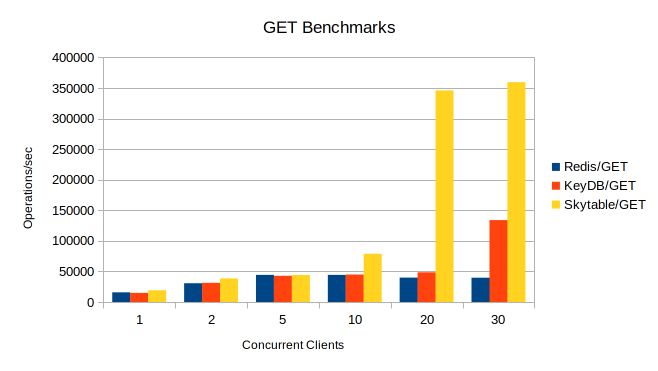
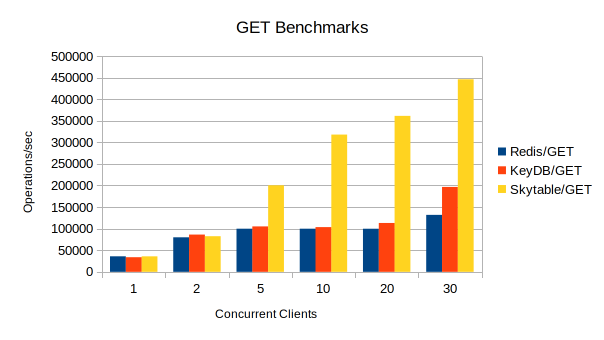
Update benches for latest releases

Changed region(s): [[0.0298, 0.1176, 0.9834, 0.8824], [0.3874, 0.0588, 0.6258, 0.1176], [0.3576, 0.9118, 0.5364, 0.9412]]

diff --git a/README.md b/README.md
@@ -1,6 +1,6 @@
 # Skytable v/s the rest
 
-> More comprehensive and thorough benchmarks will be published soon. Please wait till then!
+> More comprehensive and thorough benchmarks will be published soon. Please wait till then! **[Read the benchmark notes](#notes)**!
 
 ## Benchmark summary
 
@@ -25,8 +25,16 @@ Reading the graph:
 > Yes, I'm aware of the issue, and I will try to fix the fluctuation issue in an upcoming release.
 >
 > 2: **The KeyDB benchmark is still experimental**
-> 
+>
 > 3: **No pipelining was used in any benchmark** (Skytable's pipeline queries are currently under development)
+>
+> 4: **Key/value sizes are different!**
+>
+> - **Redis uses 3 byte** k/v sizes
+> - **Skytable uses 4 byte** k/v sizes
+> - **KeyDB** uses an unspecified k/v size (memtier doesn't say much about it; I couldn't find any appropriate documentation)
+>
+> 5: **Average values were taken**
 
 ## Procedure
 
@@ -48,41 +56,42 @@ Jump to:
 Output of `lscpu` (trimmed):
 
 ```
+ubuntu@ip-172-31-13-51:~$ lscpu
 Architecture:                    x86_64
 CPU op-mode(s):                  32-bit, 64-bit
 Byte Order:                      Little Endian
-Address sizes:                   40 bits physical, 48 bits virtual
-CPU(s):                          16
-On-line CPU(s) list:             0-15
-Thread(s) per core:              1
+Address sizes:                   46 bits physical, 48 bits virtual
+CPU(s):                          32
+On-line CPU(s) list:             0-31
+Thread(s) per core:              2
 Core(s) per socket:              16
 Socket(s):                       1
 NUMA node(s):                    1
 Vendor ID:                       GenuineIntel
-CPU family:                      15
-Model:                           6
-Model name:                      Common KVM processor
-Stepping:                        1
-CPU MHz:                         2199.998
-BogoMIPS:                        4399.99
+CPU family:                      6
+Model:                           85
+Model name:                      Intel(R) Xeon(R) Platinum 8259CL CPU @ 2.50GHz
+Stepping:                        7
+CPU MHz:                         3189.320
+BogoMIPS:                        5000.00
 Hypervisor vendor:               KVM
 Virtualization type:             full
 L1d cache:                       512 KiB
 L1i cache:                       512 KiB
-L2 cache:                        64 MiB
-L3 cache:                        16 MiB
+L2 cache:                        16 MiB
+L3 cache:                        35.8 MiB
 ```
 
 Output of `uname -a`:
 
 ```
-Linux sky-us-central 5.4.0-74-generic #83-Ubuntu SMP Sat May 8 02:35:39 UTC 2021 x86_64 x86_64 x86_64 GNU/Linux
+Linux ip-172-31-13-51 5.8.0-1042-aws #44~20.04.1-Ubuntu SMP Mon Aug 2 11:25:34 UTC 2021 x86_64 x86_64 x86_64 GNU/Linux
 ```
 
 Output of `cat /proc/meminfo | grep MemTotal`:
 
 ```
-MemTotal:       16395300 kB
+MemTotal:       130415620 kB
 ```
 
 Output of `lsb_release -a`:
@@ -96,7 +105,7 @@ Codename:	focal
 ```
 
 **Summary**
-So we have a 16-Core VM running Ubuntu 20.04.2 with 16GB RAM.
+So we have a 16-Core VM (32 threads due to hyperthreading) running Ubuntu 20.04.2 with 130.4GB RAM.
 
 ## Benchmarking Redis
 
@@ -108,7 +117,7 @@ tar -xf redis-6.2.5.tar.gz
 cd redis-6.2.5 && sudo make install
 ```
 
-Now that Redis is installed, let's benchmark `GET` and `SET` in Redis. First start the server (simply `redis-server &` to run it in the background). We'll pass `--csv` to avoid too much output and only show the
+Now that Redis is installed, let's benchmark `GET` and `SET` in Redis. First start the server (simply `redis-server --io-threads 16 &` to run it in the background). We'll pass `--csv` to avoid too much output and only show the
 required section of output.
 
 ### Benchmarking Redis
@@ -122,8 +131,8 @@ redis-benchmark -t set,get -n 100000 -c 1 --threads 1 --csv
 Output:
 
 ```
-"SET","16603.02"
-"GET","15873.02"
+"SET","35778.18"
+"GET","35919.54"
 ```
 
 **Bench 2: 2 clients, 2 threads**
@@ -135,8 +144,8 @@ redis-benchmark -t set,get -n 100000 -c 2 --threads 2 --csv
 Output:
 
 ```
-"SET","36350.42"
-"GET","30759.77"
+"SET","79936.05"
+"GET","79936.05"
 ```
 
 **Bench 3: 5 clients, 5 threads**
@@ -148,8 +157,8 @@ redis-benchmark -t set,get -n 100000 -c 5 --threads 5 --csv
 Output:
 
 ```
-"SET","44404.97"
-"GET","44404.97"
+"SET","99900.09"
+"GET","99900.09"
 ```
 
 **Bench 4: 10 clients, 10 threads**
@@ -161,8 +170,8 @@ redis-benchmark -t set,get -n 100000 -c 10 --threads 10 --csv
 Output:
 
 ```
-"SET","39936.10"
-"GET","44385.27"
+"SET","99900.09"
+"GET","99900.09"
 ```
 
 **Bench 5: 20 clients, 20 threads**
@@ -174,8 +183,8 @@ redis-benchmark -t set,get -n 100000 -c 20 --threads 20 --csv
 Output:
 
 ```
-"SET","44385.27"
-"GET","39920.16"
+"SET","99800.40"
+"GET","99800.09"
 ```
 
 **Bench 6: 30 clients, 30 threads**
@@ -187,27 +196,25 @@ redis-benchmark -t set,get -n 100000 -c 30 --threads 30 --csv
 Output:
 
 ```
-"SET","39904.23"
-"GET","39777.25"
+"SET","132450.33"
+"GET","131926.12"
 ```
 
 ## Benchmarking Skytable
 
-We'll use the latest stable Skytable release (v0.6.4)
-for benchmarking.
+We'll use the latest stable Skytable version off `next` (commit a1ea9c31114)
 
 ### Installing Skytable
 
-Skytable comes with pre-built binaries by default, unlike Redis that requires you to manually build the binaries. So we'll go ahead and download it.
+Skytable comes with pre-built binaries by default, unlike Redis that requires you to manually build the binaries. However, as we're benchmarking off the latest commit, we'll need to build it.
 
 ```sh
-wget https://github.com/skytable/skytable/releases/download/v0.6.4/sky-bundle-v0.6.4-x86_64-linux-gnu.zip
-unzip sky-bundle-v0.6.4-x86_64-linux-gnu.zip
+cargo build --release && cd target/release/skytable
 ```
 
-To start Skytable, we'll simply run `./skyd &` to keep it in the background. Like the other benchmark, we'll trim output to only keep what's necessary. Also the number of threads for the benchmark in Skytable is determined by the number of clients, so we don't have to explicitly specify the number of threads.
-
 ### Benchmarking Skytable
+
+To start Skytable, we'll simply run `./skyd &` to keep it in the background. Like the other benchmark, we'll trim output to only keep what's necessary. Also the number of threads for the benchmark in Skytable is determined by the number of clients, so we don't have to explicitly specify the number of threads.
 
 **Bench 1: 1 client, 1 thread**
 
@@ -219,8 +226,8 @@ Output:
 
 ```json
 [
-  { "report": "GET", "stat": 19243.486447917167 },
-  { "report": "SET", "stat": 19966.21511150442 }
+  { "report": "GET", "stat": 35819.636414 },
+  { "report": "SET", "stat": 35524.728037 }
 ]
 ```
 
@@ -234,8 +241,8 @@ Output:
 
 ```json
 [
-  { "report": "GET", "stat": 38582.11281719525 },
-  { "report": "SET", "stat": 36313.763793128164 }
+  { "report": "GET", "stat": 82489.2301145 },
+  { "report": "SET", "stat": 83473.0270512 }
 ]
 ```
 
@@ -249,8 +256,8 @@ Output:
 
 ```json
 [
-  { "report": "GET", "stat": 44292.0943448734 },
-  { "report": "SET", "stat": 46593.50782686504 }
+  { "report": "GET", "stat": 200557.406392 },
+  { "report": "SET", "stat": 198217.313562 }
 ]
 ```
 
@@ -264,8 +271,8 @@ Output:
 
 ```json
 [
-  { "report": "GET", "stat": 78869.86997358651 },
-  { "report": "SET", "stat": 90033.9936397916 }
+  { "report": "GET", "stat": 318038.853356 },
+  { "report": "SET", "stat": 316238.431393 }
 ]
 ```
 
@@ -279,8 +286,8 @@ Output:
 
 ```json
 [
-  { "report": "GET", "stat": 346012.6880153796 },
-  { "report": "SET", "stat": 341191.7935116819 }
+  { "report": "GET", "stat": 361300.582958 },
+  { "report": "SET", "stat": 362723.490174 }
 ]
 ```
 
@@ -294,8 +301,8 @@ Output:
 
 ```json
 [
-  { "report": "GET", "stat": 359502.86118081387 },
-  { "report": "SET", "stat": 371029.6102851901 }
+  { "report": "GET", "stat": 446146.100598 },
+  { "report": "SET", "stat": 432186.17602 }
 ]
 ```
 
@@ -305,16 +312,17 @@ Please note that the KeyDB benchmark is **still experimental**.
 
 ### Installing KeyDB
 
-We'll download and install the latest KeyDB release at this time from [this link](https://github.com/EQ-Alpha/KeyDB/releases/tag/v6.0.16).
+We'll download and install the latest KeyDB release at this time from [this link](https://github.com/EQ-Alpha/KeyDB/releases/tag/v6.2.0).
 
 ```sh
-wget https://github.com/EQ-Alpha/KeyDB/archive/refs/tags/v6.0.16.zip
-unzip v06.0.16.zip
-cd KeyDB-6.0.16 && sudo make install
+wget https://github.com/EQ-Alpha/KeyDB/archive/refs/tags/v6.2.0.zip
+unzip v6.2.0.zip
+cd KeyDB-6.2.0 && sudo make install
 ```
 
 We'll start KeyDB by running: `keydb-server --server-threads 16 &`, explicitly telling the server
-to use 16 threads (since we have 16 vCPUs).
+to use 16 threads (since we have 16 vCPUs, and
+`keydb-server` won't allow us to pass 32).
 
 Do note that KeyDB requires a number of libraries that need to be installed (the package names are for Ubuntu):
 
@@ -351,8 +359,8 @@ memtier_benchmark --ratio=1:0 -c1 -t1
 Output:
 
 ```
-Gets: 15004.47
-Sets: 15194.45
+Gets: 33873
+Sets: 33004
 ```
 
 **Bench 2: 2 threads/2 clients**
@@ -365,8 +373,8 @@ memtier_benchmark --ratio=1:0 -c1 -t2
 Output:
 
 ```
-Gets: 31362.12
-Sets: 30857.25
+Gets: 86279
+Sets: 85667
 ```
 
 **Bench 3: 5 threads/5 clients**
@@ -379,8 +387,8 @@ memtier_benchmark --ratio=1:0 -c1 -t5
 Output:
 
 ```
-Gets: 42831.69
-Sets: 46195.78
+Gets: 105218
+Sets: 103589
 ```
 
 **Bench 4: 10 threads/10 clients**
@@ -393,8 +401,8 @@ memtier_benchmark --ratio=1:0 -c1 -t10
 Output:
 
 ```
-Gets: 44949.32
-Sets: 43732.82
+Gets: 116394
+Sets: 115647
 ```
 
 **Bench 5: 20 threads/20 clients**
@@ -407,8 +415,8 @@ memtier_benchmark --ratio=1:0 -c1 -t20
 Output:
 
 ```
-Gets: 48612.15
-Sets: 47622.22
+Gets: 113154
+Sets: 110729
 ```
 
 **Bench 6: 30 threads/30 clients**
@@ -421,26 +429,8 @@ memtier_benchmark --ratio=1:0 -c1 -t30
 Output:
 
 ```
-Gets: 133929.23
-Sets: 143908.91
-```
-
-### For the adventurous
-
-I wanted to see how high we could go with KeyDB, so I tried this:
-
-```sh
-memtier_benchmark --ratio=0:1 -c50 -t30
-memtier_benchmark --ratio=1:0 -c50 -t30
-```
-
-Equivalent to 50 connections per thread \* 30 threads = 1500 connections. (`-c50` is the default according to the help menu)
-
-Here's what I got:
-
-```
-Gets: 154521.92
-Sets: 134145.84
+Gets: 196542
+Sets: 203297
 ```
 
 ## Contributing
